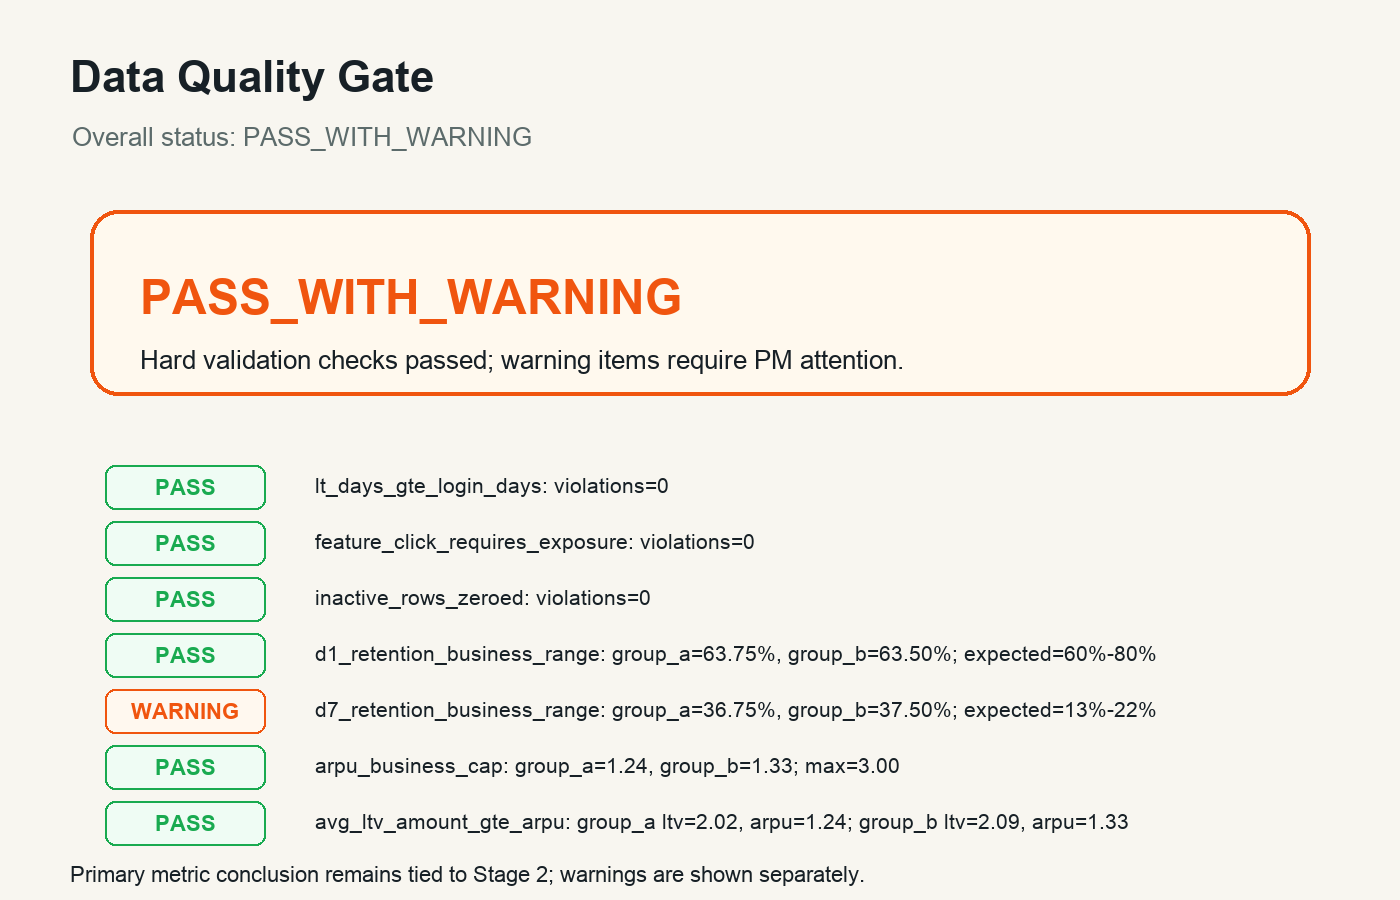
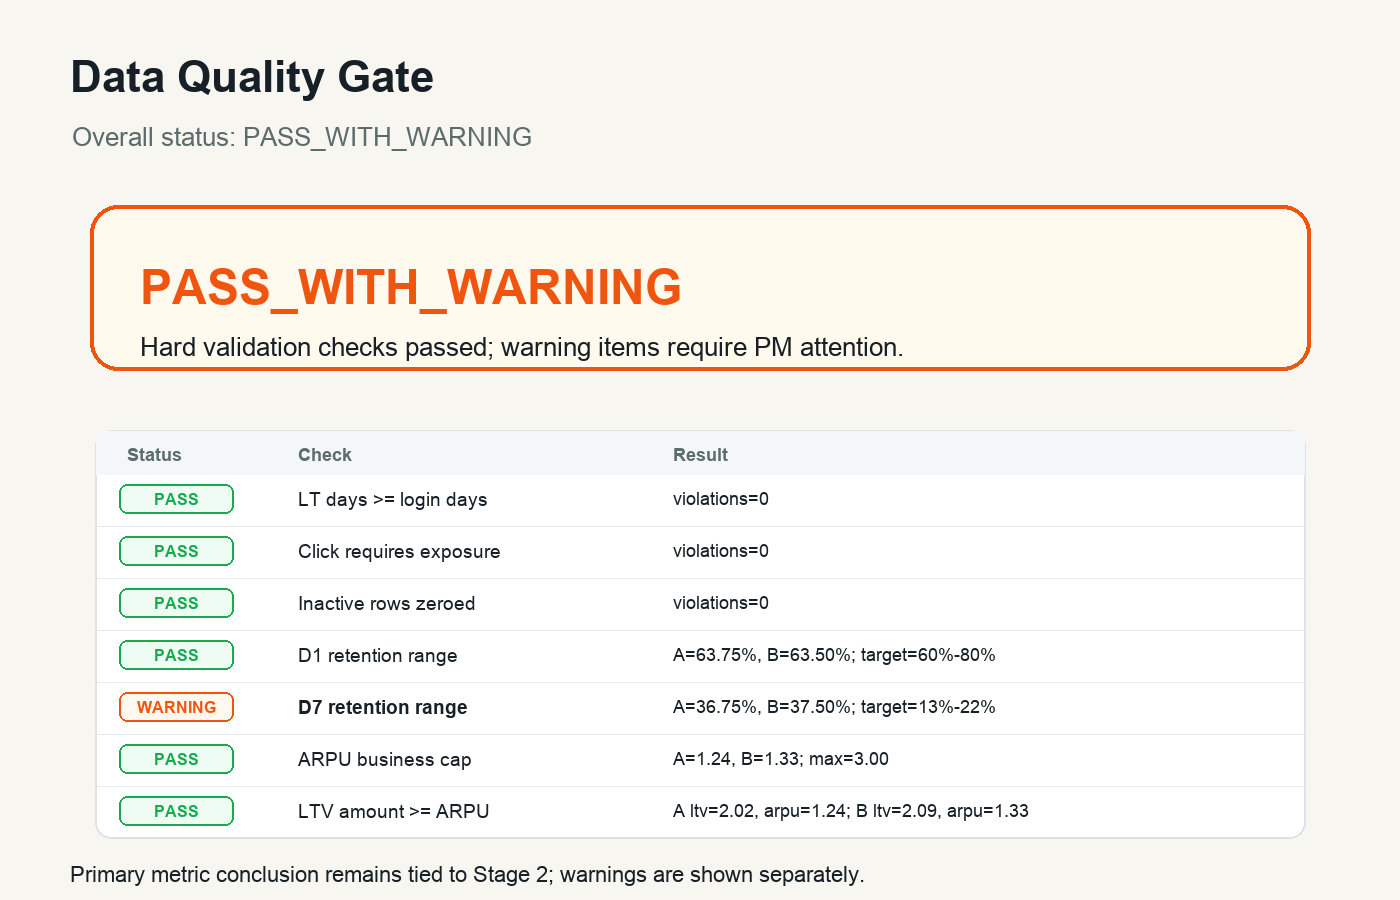
Improve README product showcase

diff --git a/frontend/src/styles.css b/frontend/src/styles.css
@@ -676,6 +676,18 @@ h2 {
   border-top: 1px solid rgba(23, 32, 38, 0.08);
 }
 
+.metric-result-header span,
+.metric-result-row span,
+.anova-result-header span,
+.anova-result-row span {
+  min-width: 0;
+}
+
+.metric-result-row span {
+  overflow-wrap: anywhere;
+  line-height: 1.35;
+}
+
 .metric-result-row span:first-child,
 .anova-result-row span:first-child,
 .anova-result-row span:nth-child(2) {

diff --git a/tools/render_readme_assets.py b/tools/render_readme_assets.py
@@ -82,37 +82,49 @@ def render_data_quality_gate(output_path: Path) -> None:
     draw_fit_text(draw, "Data Quality Gate", (70, 52), 1260, TEXT, 44, bold=True)
     draw_fit_text(draw, "Overall status: PASS_WITH_WARNING", (72, 122), 1260, MUTED, 26)
 
-    draw.rounded_rectangle((90, 210, 1310, 395), radius=28, fill=(255, 249, 238), outline=(240, 85, 15), width=4)
-    draw_fit_text(draw, "PASS_WITH_WARNING", (140, 270), 1060, (240, 85, 15), 48, bold=True)
+    draw.rounded_rectangle((90, 205, 1310, 370), radius=28, fill=(255, 249, 238), outline=(240, 85, 15), width=4)
+    draw_fit_text(draw, "PASS_WITH_WARNING", (140, 260), 1060, (240, 85, 15), 48, bold=True)
     draw_fit_text(
         draw,
         "Hard validation checks passed; warning items require PM attention.",
-        (140, 345),
+        (140, 332),
         1080,
         TEXT,
         26,
     )
 
     checks = [
-        ("PASS", "lt_days_gte_login_days: violations=0"),
-        ("PASS", "feature_click_requires_exposure: violations=0"),
-        ("PASS", "inactive_rows_zeroed: violations=0"),
-        ("PASS", "d1_retention_business_range: group_a=63.75%, group_b=63.50%; expected=60%-80%"),
-        ("WARNING", "d7_retention_business_range: group_a=36.75%, group_b=37.50%; expected=13%-22%"),
-        ("PASS", "arpu_business_cap: group_a=1.24, group_b=1.33; max=3.00"),
-        ("PASS", "avg_ltv_amount_gte_arpu: group_a ltv=2.02, arpu=1.24; group_b ltv=2.09, arpu=1.33"),
+        ("PASS", "LT days >= login days", "violations=0"),
+        ("PASS", "Click requires exposure", "violations=0"),
+        ("PASS", "Inactive rows zeroed", "violations=0"),
+        ("PASS", "D1 retention range", "A=63.75%, B=63.50%; target=60%-80%"),
+        ("WARNING", "D7 retention range", "A=36.75%, B=37.50%; target=13%-22%"),
+        ("PASS", "ARPU business cap", "A=1.24, B=1.33; max=3.00"),
+        ("PASS", "LTV amount >= ARPU", "A ltv=2.02, arpu=1.24; B ltv=2.09, arpu=1.33"),
     ]
 
-    y = 465
-    row_gap = 56
-    for status, message in checks:
+    table_x0, table_y0, table_x1 = 95, 430, 1305
+    row_h = 52
+    status_w = 175
+    check_w = 375
+    table_h = 44 + len(checks) * row_h
+    draw.rounded_rectangle((table_x0, table_y0, table_x1, table_y0 + table_h), radius=16, fill=WHITE, outline=(220, 226, 232), width=2)
+    draw.rectangle((table_x0 + 1, table_y0 + 1, table_x1 - 1, table_y0 + 44), fill=(244, 247, 248))
+    draw.text((table_x0 + 32, table_y0 + 14), "Status", fill=MUTED, font=font(18, True))
+    draw.text((table_x0 + status_w + 28, table_y0 + 14), "Check", fill=MUTED, font=font(18, True))
+    draw.text((table_x0 + status_w + check_w + 28, table_y0 + 14), "Result", fill=MUTED, font=font(18, True))
+
+    for index, (status, check, result) in enumerate(checks):
+        y = table_y0 + 44 + index * row_h
+        if index:
+            draw.line((table_x0, y, table_x1, y), fill=(229, 234, 238), width=1)
         is_warning = status == "WARNING"
         color = (240, 85, 15) if is_warning else (25, 170, 80)
         fill = (255, 248, 239) if is_warning else (239, 252, 244)
-        draw.rounded_rectangle((105, y, 265, y + 44), radius=10, fill=fill, outline=color, width=2)
-        draw.text((185, y + 22), status, fill=color, font=font(22, True), anchor="mm")
-        draw_fit_text(draw, message, (315, y + 8), 940, TEXT, 21)
-        y += row_gap
+        draw.rounded_rectangle((table_x0 + 24, y + 10, table_x0 + 138, y + 39), radius=8, fill=fill, outline=color, width=2)
+        draw.text((table_x0 + 81, y + 25), status, fill=color, font=font(16, True), anchor="mm")
+        draw_fit_text(draw, check, (table_x0 + status_w + 28, y + 14), check_w - 48, TEXT, 19, bold=is_warning)
+        draw_fit_text(draw, result, (table_x0 + status_w + check_w + 28, y + 14), 610, TEXT, 18)
 
     draw_fit_text(
         draw,

diff --git a/README.md b/README.md
@@ -19,6 +19,12 @@
 上传 Excel -> 识别 sheet 和表头 -> 选择分组字段和指标字段 -> 执行显著性分析 -> 生成图表 -> 下载结果
 ```
 
+## 产品界面预览
+
+通过 demo 数据可以在本地快速跑完整流程：生成样例 Excel、自动识别字段、执行显著性分析，并在同一页面查看 Gate、PM 结论和图表输出。
+
+![A/B Test Workbench product interface](./docs/assets/readme/product-workbench.png)
+
 ## 功能亮点
 
 - **Excel 导入**：支持 `.xlsx` / `.xlsm` 上传，自动读取 sheet、识别表头、展示字段类型和样例值。
@@ -31,7 +37,7 @@
 
 ## 示例图表
 
-仓库中保留了部分生成图表，便于快速理解输出形态：
+仓库中保留了部分生成图表，便于快速理解分析输出形态：
 
 ![Primary metric chart](./docs/assets/readme/primary-metric.png)
 